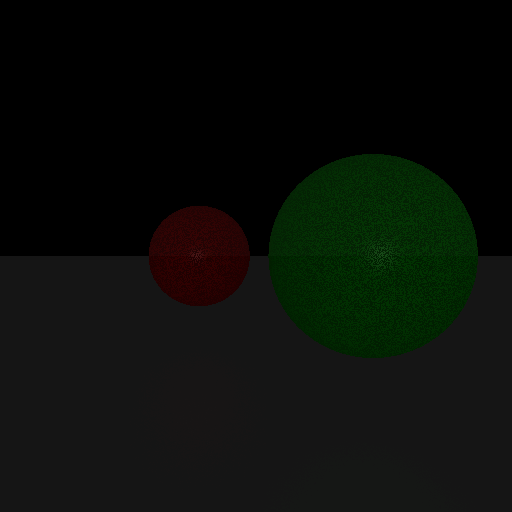
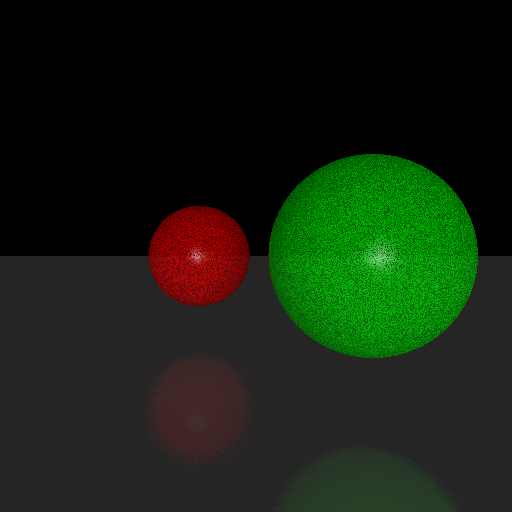
fixes

Changed region(s): [[0.2812, 0.2812, 0.9375, 0.7188], [0.2812, 0.6875, 0.5, 0.9062], [0.5312, 0.875, 0.9062, 1.0]]

diff --git a/raytrace.py b/raytrace.py
@@ -24,22 +24,20 @@ class Sphere:
         r = self.Radius
 
         A = np.dot(d, d)
-        B = 2.0 * np.dot(d, (e - c))
-        C = np.dot((e - c), (e - c)) - r * r
+        B = 2.0 * np.dot(d, e - c)
+        C = np.dot(e - c, e - c) - r * r
 
         delta = B * B - 4.0 * A * C
-
         if delta < 0:
             return float("inf")
 
         t1 = (-B - np.sqrt(delta)) / (2.0 * A)
         t2 = (-B + np.sqrt(delta)) / (2.0 * A)
 
-        ts = [t for t in [t1, t2] if t > 0]
-        if len(ts) == 0:
+        vals = [t for t in [t1, t2] if t > 1e-4]
+        if len(vals) == 0:
             return float("inf")
-
-        return min(ts)
+        return min(vals)
 
     def get_normal(self, p):
         return (p - self.Center) / np.linalg.norm(p - self.Center)
@@ -59,8 +57,7 @@ class Plane:
             return float("inf")
 
         t = np.dot(self.p - ray.e, self.n) / denom
-
-        if t > 0:
+        if t > 1e-4:
             return t
         return float("inf")
 
@@ -95,36 +92,27 @@ class HitInformation:
 
 
 class Scene:
-    light_source_1 = np.array([0.0, 0.0, 1.0])
-
     def __init__(self, camera):
         self.theCamera = camera
-        self.light_source_1 = self.light_source_1 / np.linalg.norm(self.light_source_1)
+        self.light_pos = np.array((180.0, 220.0, 200.0))
 
-        objects = []
-
-        objects.append(
+        self.scene_objects = [
             Sphere(
                 np.array((-90.0, 0.0, -800.0)),
                 80.0,
                 np.array((255.0, 0.0, 0.0))
-            )
-        )
-
-        objects.append(
+            ),
             Sphere(
                 np.array((90.0, 0.0, -400.0)),
                 80.0,
                 np.array((0.0, 255.0, 0.0))
+            ),
+            Plane(
+                np.array((0.0, -120.0, 0.0)),
+                np.array((0.0, 1.0, 0.0)),
+                np.array((170.0, 170.0, 170.0))
             )
-        )
-
-        p1 = np.array((0.0, -120.0, 0.0))
-        n = np.array((0.0, 1.0, 0.0))
-        color = np.array((180.0, 180.0, 180.0))
-        objects.append(Plane(p1, n, color))
-
-        self.scene_objects = objects
+        ]
 
     def find_intersection(self, ray):
         hit_list = []
@@ -137,60 +125,62 @@ class Scene:
 
         return hit_list
 
-    def get_color(self, hit_list):
-        if len(hit_list) == 0:
+    def get_closest_hit(self, ray):
+        hits = self.find_intersection(ray)
+        if len(hits) == 0:
+            return None
+
+        best = hits[0]
+        best_d = np.linalg.norm(best.p - ray.e)
+
+        for h in hits[1:]:
+            d = np.linalg.norm(h.p - ray.e)
+            if d < best_d:
+                best = h
+                best_d = d
+
+        return best
+
+    def in_shadow(self, p, light_dir, light_dist):
+        shadow_ray = Ray(p + 0.01 * light_dir, p + light_dir)
+        shadow_hit = self.get_closest_hit(shadow_ray)
+
+        if shadow_hit is None:
+            return False
+
+        d = np.linalg.norm(shadow_hit.p - p)
+        return d < light_dist
+
+    def get_color(self, hit):
+        if hit is None:
             return np.array((0.0, 0.0, 0.0))
 
-        hit = hit_list[0]
         obj = hit.Object
         p = hit.p
-
         n = obj.get_normal(p)
         n = n / np.linalg.norm(n)
 
         view = self.theCamera.eye - p
         view = view / np.linalg.norm(view)
 
-        ambient = 0.35 * obj.Color
+        to_light = self.light_pos - p
+        light_dist = np.linalg.norm(to_light)
+        light = to_light / light_dist
 
-        shadow_total = 0
-        shadow_samples = 4
+        ambient = 0.45 * obj.Color
 
-        for _ in range(shadow_samples):
-            offset = np.array((
-                np.random.uniform(-0.2, 0.2),
-                np.random.uniform(-0.2, 0.2),
-                np.random.uniform(-0.2, 0.2)
-            ))
+        shadow = 1.0
+        if self.in_shadow(p, light, light_dist):
+            shadow = 0.45
 
-            light = self.light_source_1 + offset
-            light = light / np.linalg.norm(light)
-
-            shadow_ray = Ray(p + 0.001 * light, p + light)
-            shadow_hits = self.find_intersection(shadow_ray)
-
-            blocked = False
-            for sh in shadow_hits:
-                if np.linalg.norm(sh.p - p) > 1e-3:
-                    blocked = True
-                    break
-
-            if not blocked:
-                shadow_total += 1
-
-        shadow = shadow_total / shadow_samples
-
-        light = self.light_source_1
-        light = light / np.linalg.norm(light)
-
-        diffuse_amount = max(0.0, np.dot(n, light))
-        diffuse = obj.Color * diffuse_amount * shadow
+        diff_amount = max(0.0, np.dot(n, light))
+        diffuse = obj.Color * diff_amount * shadow
 
         r = 2 * np.dot(n, light) * n - light
         r = r / np.linalg.norm(r)
 
-        spec_amount = max(0.0, np.dot(r, view)) ** 32
-        specular = np.array((255.0, 255.0, 255.0)) * spec_amount * shadow
+        spec_amount = max(0.0, np.dot(r, view)) ** 45
+        specular = np.array((255.0, 255.0, 255.0)) * spec_amount * shadow * 0.9
 
         color = ambient + diffuse + specular
         return np.clip(color, 0, 255)
@@ -199,10 +189,8 @@ class Scene:
 def refract(d, n, eta):
     cosi = -np.dot(n, d)
     k = 1 - eta * eta * (1 - cosi * cosi)
-
     if k < 0:
         return None
-
     return eta * d + (eta * cosi - np.sqrt(k)) * n
 
 
@@ -210,20 +198,14 @@ def trace_ray(ray, scene, depth):
     if depth > 3:
         return np.array((0.0, 0.0, 0.0))
 
-    hit_list = scene.find_intersection(ray)
-
-    if len(hit_list) == 0:
+    hit = scene.get_closest_hit(ray)
+    if hit is None:
         return np.array((0.0, 0.0, 0.0))
 
-    closest_hit = hit_list[0]
-    for hit in hit_list:
-        if np.linalg.norm(hit.p - ray.e) < np.linalg.norm(closest_hit.p - ray.e):
-            closest_hit = hit
+    local_color = scene.get_color(hit)
 
-    local_color = scene.get_color([closest_hit])
-
-    p = closest_hit.p
-    n = closest_hit.Object.get_normal(p)
+    p = hit.p
+    n = hit.Object.get_normal(p)
     n = n / np.linalg.norm(n)
 
     d = ray.s - ray.e
@@ -232,20 +214,20 @@ def trace_ray(ray, scene, depth):
     r = d - 2 * np.dot(d, n) * n
     r = r / np.linalg.norm(r)
 
+    # glossy reflection: small blur, not noisy
     reflected_color = np.array((0.0, 0.0, 0.0))
-    glossy_samples = 3
+    glossy_samples = 8
 
     for _ in range(glossy_samples):
         jitter = np.array((
-            np.random.uniform(-0.03, 0.03),
-            np.random.uniform(-0.03, 0.03),
-            np.random.uniform(-0.03, 0.03)
+            np.random.uniform(-0.012, 0.012),
+            np.random.uniform(-0.012, 0.012),
+            np.random.uniform(-0.012, 0.012)
         ))
-
         glossy_dir = r + jitter
         glossy_dir = glossy_dir / np.linalg.norm(glossy_dir)
 
-        glossy_ray = Ray(p + 0.001 * glossy_dir, p + glossy_dir)
+        glossy_ray = Ray(p + 0.01 * glossy_dir, p + glossy_dir)
         reflected_color += trace_ray(glossy_ray, scene, depth + 1)
 
     reflected_color = reflected_color / glossy_samples
@@ -255,12 +237,12 @@ def trace_ray(ray, scene, depth):
 
     if refr_dir is not None:
         refr_dir = refr_dir / np.linalg.norm(refr_dir)
-        refracted_ray = Ray(p + 0.001 * refr_dir, p + refr_dir)
+        refracted_ray = Ray(p + 0.01 * refr_dir, p + refr_dir)
         refracted_color = trace_ray(refracted_ray, scene, depth + 1)
     else:
         refracted_color = np.array((0.0, 0.0, 0.0))
 
-    final_color = 0.6 * local_color + 0.2 * reflected_color + 0.2 * refracted_color
+    final_color = 0.72 * local_color + 0.16 * reflected_color + 0.12 * refracted_color
     return np.clip(final_color, 0, 255)
 
 
